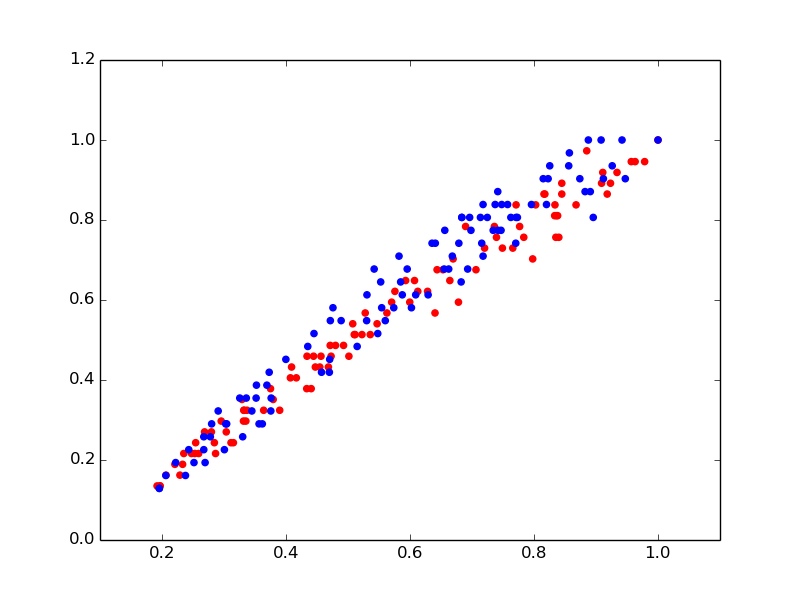
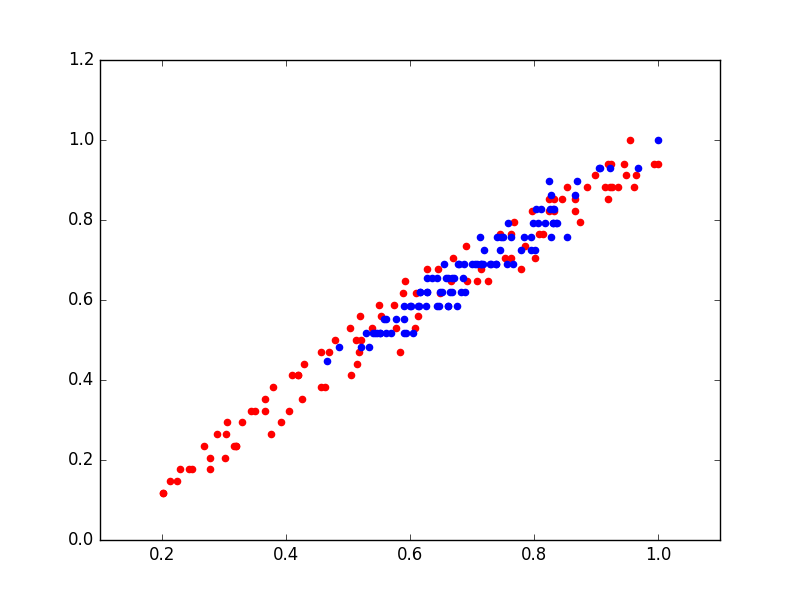
Fixing the CDOM bug

diff --git a/GAMethods.py b/GAMethods.py
@@ -107,7 +107,7 @@ def dfs_mutate(treeNode, point, parentDecision, nodeDecisions, isMutated):
             dfs_mutate(treeNode.children[i], point, parentDecision, nodeDecisions, isMutated)
     elif parentDecision and treeNode.type == "Optional":
         if not isMutated:
-            if random.random() < 0.8:
+            if random.random() < 0.5:
                 parentDecision = nodeDecisions[treeNode.id]
                 point.append([treeNode.id, nodeDecisions[treeNode.id]])
             else:
@@ -151,7 +151,7 @@ def dfs_mutate(treeNode, point, parentDecision, nodeDecisions, isMutated):
                         dfs_mutate(treeNode.children[i], point, parentDecision, nodeDecisions, isMutated)
         else:
             if treeNode.maxCardinality == 1 and treeNode.minCardinality == 1:
-                if random.random() < 0.8:
+                if random.random() < 0.5:
                     isMutated = False
                     for i in xrange(len(treeNode.children)):
                         parentDecision = nodeDecisions[treeNode.children[i].id]
@@ -171,7 +171,7 @@ def dfs_mutate(treeNode, point, parentDecision, nodeDecisions, isMutated):
                             dfs_mutate(treeNode.children[i], point, parentDecision, nodeDecisions, True)
             elif treeNode.minCardinality == 1 and treeNode.maxCardinality == -1:
                 for i in xrange(len(treeNode.children)):
-                    if random.random() < 0.8:
+                    if random.random() < 0.5:
                         parentDecision = nodeDecisions[treeNode.children[i].id]
                         point.append([treeNode.children[i].id, nodeDecisions[treeNode.children[i].id]])
                         dfs_mutate(treeNode.children[i], point, parentDecision, nodeDecisions, isMutated)
@@ -309,40 +309,3 @@ def mutatePoints(model, ind1):
     #print str(ind1) + " ---> " + str(ind)
     for index in range(len(ind)):
         ind1[index] = ind[index]
-
-def selectNSGA2(individuals, k, nd='standard'):
-    """Apply NSGA-II selection operator on the *individuals*. Usually, the
-    size of *individuals* will be larger than *k* because any individual
-    present in *individuals* will appear in the returned list at most once.
-    Having the size of *individuals* equals to *k* will have no effect other
-    than sorting the population according to their front rank. The
-    list returned contains references to the input *individuals*. For more
-    details on the NSGA-II operator see [Deb2002]_.
-    
-    :param individuals: A list of individuals to select from.
-    :param k: The number of individuals to select.
-    :param nd: Specify the non-dominated algorithm to use: 'standard' or 'log'.
-    :returns: A list of selected individuals.
-    
-    .. [Deb2002] Deb, Pratab, Agarwal, and Meyarivan, "A fast elitist
-       non-dominated sorting genetic algorithm for multi-objective
-       optimization: NSGA-II", 2002.
-    """
-    if nd == 'standard':
-        pareto_fronts = sortNondominated(individuals, k)
-    elif nd == 'log':
-        pareto_fronts = sortLogNondominated(individuals, k)
-    else:
-        raise Exception('selNSGA2: The choice of non-dominated sorting '
-                        'method "{0}" is invalid.'.format(nd))
-
-    for front in pareto_fronts:
-        assignCrowdingDist(front)
-    
-    chosen = list(chain(*pareto_fronts[:-1]))
-    k = k - len(chosen)
-    if k > 0:
-        sorted_front = sorted(pareto_fronts[-1], key=attrgetter("fitness.crowding_dist"), reverse=True)
-        chosen.extend(sorted_front[:k])
-        
-    return chosen

diff --git a/deap/tools/emo_cdom.py b/deap/tools/emo_cdom.py
@@ -45,7 +45,11 @@ def selNSGA2Cdom(individuals, k, nd='standard'):
     if k > 0:
         sorted_front = sorted(pareto_fronts[-1], key=attrgetter("fitness.crowding_dist"), reverse=True)
         chosen.extend(sorted_front[:k])
-        
+    elif k < 0:
+        k = k * -1
+        chosen = chosen[:len(chosen)-k]
+
+    #print len(chosen)
     return chosen
 
 
@@ -123,8 +127,8 @@ def sortNondominated(individuals, k, first_front_only=False):
             current_front.append(fit_i)
 
     fronts = [[]]
-    for fit in current_front:
-        fronts[-1].extend(map_fit_ind[fit])
+    # for fit in current_front:
+    #     fronts[-1].extend(map_fit_ind[fit])
     pareto_sorted = len(fronts[-1])
 
     # for i, fit_i in enumerate(fits):
@@ -141,12 +145,17 @@ def sortNondominated(individuals, k, first_front_only=False):
 
     if not first_front_only:
         N = min(len(individuals), k)
-        while pareto_sorted < N:
-            fronts.append([])
+        if pareto_sorted < N:
             for count in sorted(sorted_points, reverse=True):
+                fronts.append([])
                 for fit_p in sorted_points[count]:
                     fronts[-1].extend(map_fit_ind[fit_p])
                     pareto_sorted += 1
+                    if pareto_sorted >= N:
+                        break
+                if pareto_sorted >= N:
+                    break
+
 
     """"
     # Rank the next front until all individuals are sorted or
@@ -167,7 +176,7 @@ def sortNondominated(individuals, k, first_front_only=False):
             current_front = next_front
             next_front = []
     """
-    
+    print pareto_sorted
     return fronts
 
 def assignCrowdingDist(individuals):
@@ -275,6 +284,7 @@ def selTournamentDCDCdom(individuals, k):
                         ind.fitness.normalisedValue.append(ind.fitness.wvalues[i])
 
         chosen = []
+        print len(individuals_1), len(individuals_2)
         for i in xrange(0, k, 4):
             chosen.append(tourn(individuals_1[i], individuals_1[i + 1]))
             chosen.append(tourn(individuals_1[i + 2], individuals_1[i + 3]))

diff --git a/Optimisers.py b/Optimisers.py
@@ -19,7 +19,7 @@ def nsga2Cdom(simulator, model):
     # ind1 = toolbox.individual()
     # print ind1
     # print ind1.fitness.valid
-    MU = 12
+    MU = 100
     toolbox.register("population", tools.initRepeat, list, toolbox.individual)
     pop = toolbox.population(n=MU)
     # print "\n\n\n ## \n"
@@ -40,11 +40,12 @@ def nsga2Cdom(simulator, model):
     #pop = toolbox.select(pop, MU)
     #print "\n After Selecting \n"
     #printPopulation(pop)
-    NGEN = 10
+    NGEN = 100
 
     for gen in range(1, NGEN):
         # Vary the population
         #tools.assignCrowdingDist(pop)
+        print "Generation CDOM" + str(gen)
         offspring = tools.selTournamentDCDCdom(pop, len(pop))
         offspring = [toolbox.clone(ind) for ind in offspring]
 
@@ -66,12 +67,13 @@ def nsga2Cdom(simulator, model):
         pop = toolbox.select(pop + offspring, MU)
         #record = stats.compile(pop)
         #logbook.record(gen=gen, evals=len(invalid_ind), **record)
-        #print(logbook.stream)
+        #print "\n\n\n"
+        #printPopulation(pop)
 
     #print("Final population hypervolume is %f" % tools. hypervolume(pop, [11.0, 11.0]))
 
-    # print "\n \n \nFinal Population: \n\n"
-    # printPopulation(pop)
+    print "\n \n \nFinal Population: \n\n"
+    printPopulation(pop)
 
     return pop
 
@@ -109,11 +111,12 @@ def nsga2(simulator, model):
     #pop = toolbox.select(pop, MU)
     #print "\n After Selecting \n"
     #printPopulation(pop)
-    NGEN = 10
+    NGEN = 100
 
     for gen in range(1, NGEN):
         # Vary the population
         #tools.assignCrowdingDist(pop)
+        print "Generation NSGA" + str(gen)
         offspring = tools.selTournamentDCD(pop, len(pop))
         offspring = [toolbox.clone(ind) for ind in offspring]
 

diff --git a/testOptimizers.py b/testOptimizers.py
@@ -13,13 +13,13 @@ def writeToFile(paretos, folder, pareto_name):
     cc = 0
     for algo in paretos:
         fit_array = np.array(paretos[algo], dtype=float)
-        print('fit array shape',fit_array.shape)
+        #print('fit array shape',fit_array.shape)
         num_obj = fit_array.shape[1]
         fit_array_norm = np.vstack(tuple([fit_array[:,c]/max(1,np.max(fit_array[:,c])) for c in range(num_obj)]))
         #fit_array_norm = fit_array/ fit_array.max(axis=0)
         fit_array_norm = fit_array_norm.T
-        print('norm shape',fit_array_norm.shape)
-        print(fit_array_norm)
+        #print('norm shape',fit_array_norm.shape)
+        #print(fit_array_norm)
         f = open(folder+algo+'_'+pareto_name+'.txt','w')
         for i in range(fit_array_norm.shape[0]):
             print(' '.join(map(str, fit_array_norm[i,:].tolist())), file=f)
